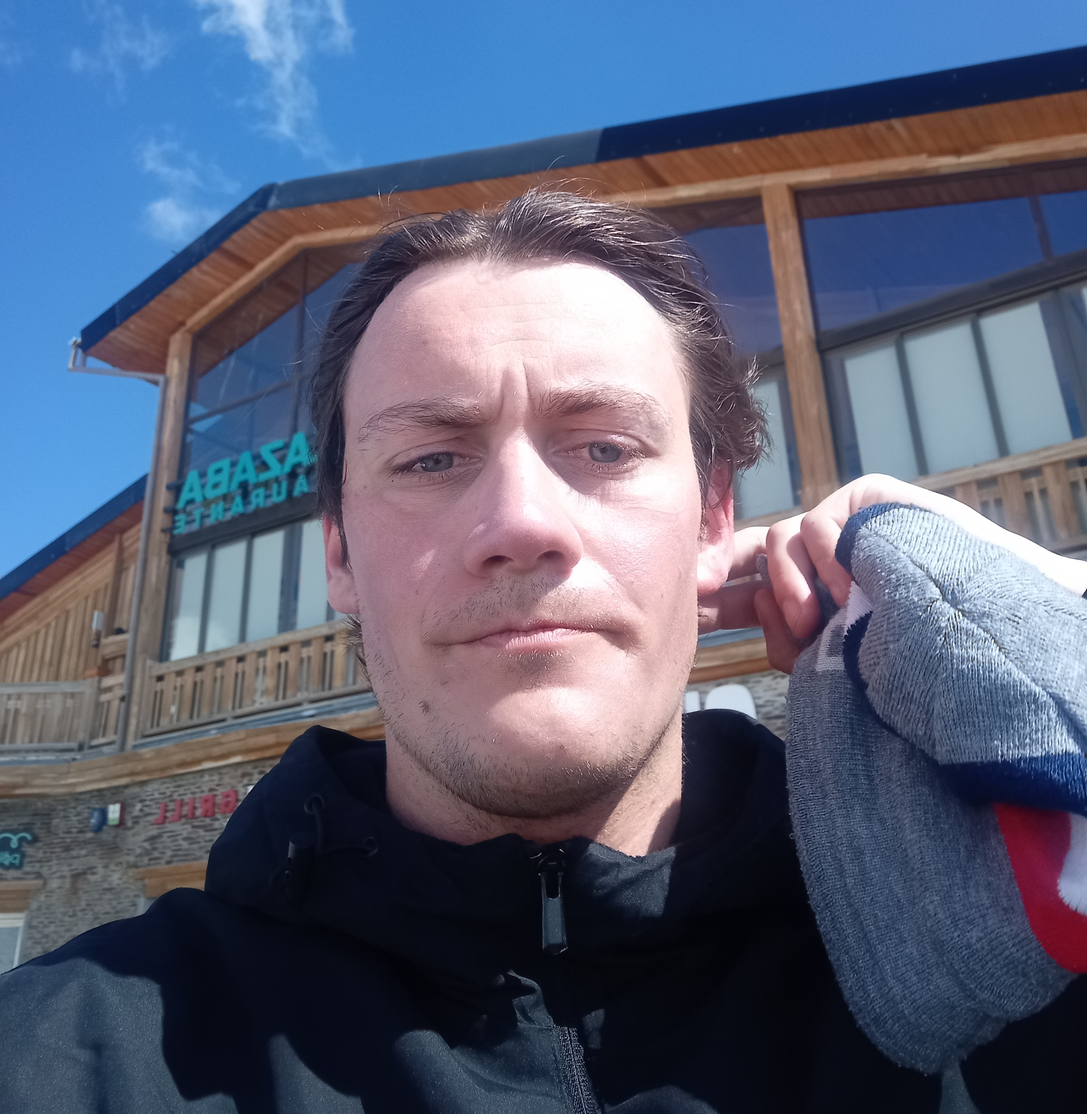
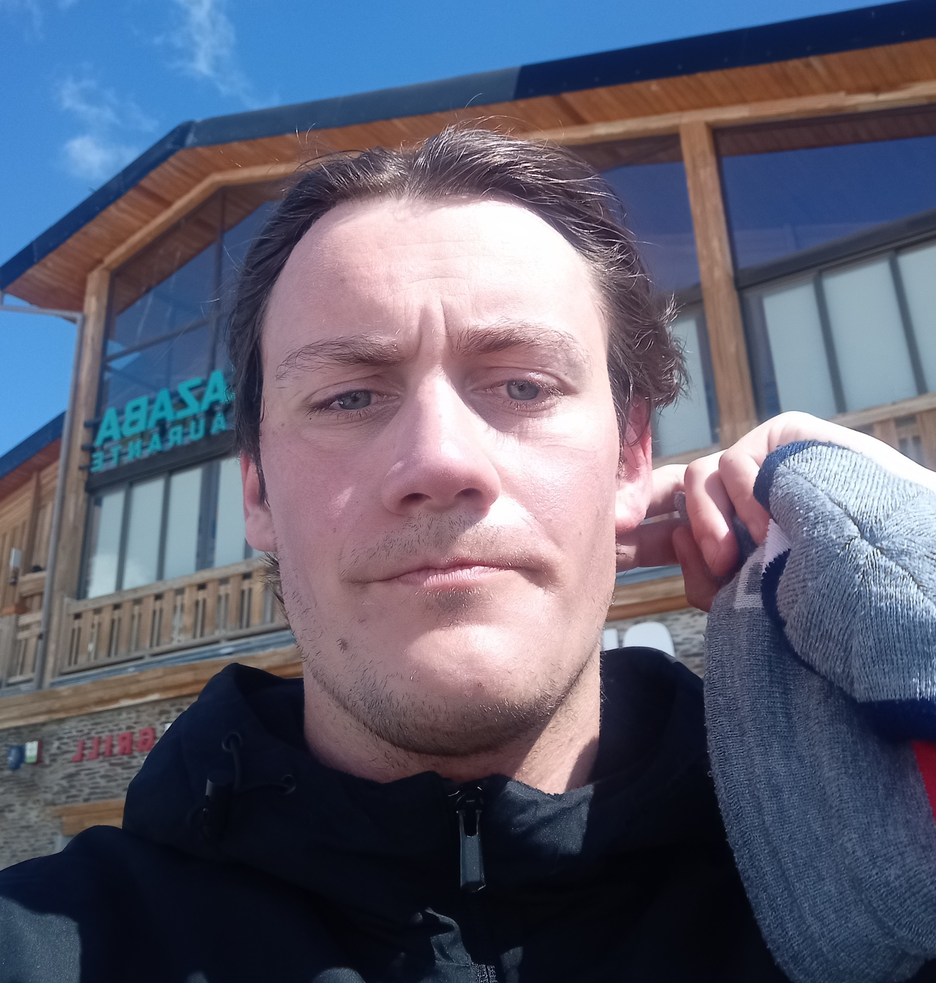
Linted markdown. Resized profile pic

diff --git a/docs/index.md b/docs/index.md
@@ -25,6 +25,7 @@ hero:
 ---
 
 ## About Me
+
 <div class="profile-container">
     <img src="/profile_pic.jpg" alt="Your Image" class="profile-pic">
     <p>
@@ -35,22 +36,26 @@ hero:
 ## Education
 
 ### Bachelor’s Degree in Computer Science and Engineering
+
 ISEL – Instituto Superior de Engenharia de Lisboa  
 Portugal, Lisbon 2020 - 2023
 
 ### Master’s Degree in Computer Science and Engineering
+
 ISEL – Instituto Superior de Engenharia de Lisboa  
 Portugal, Lisbon 2023 - 2025
 
-
 ## Skills
-### Languages:
+
+### Languages
+
 * *Portuguese (Native)*
 * *English (Advanced)*
 * *Spanish (Intermediate)*
 
-### Programming:
-* Java &#xf0b37; , Kotlin &#xe634; 
+### Programming
+
+* Java &#xf0b37; , Kotlin &#xe634;
 * JavaScript &#xe781; , Typescript &#xe8ca;
 * HTML &#xe736; , CSS &#xe749;
 * Python &#xe73c;
@@ -58,51 +63,63 @@ Portugal, Lisbon 2023 - 2025
 * PostgreSQL &#xe76e; , SQLite &#xe7c4; , MongoDB &#xe7a4; , Firebase &#xf0967;
 * Android &#xf17b;
 
-#### Frameworks:
-* Docker &#xe7b0; , Kubernetes &#xe81d; 
+#### Frameworks
+
+* Docker &#xe7b0; , Kubernetes &#xe81d;
 * Spring Boot &#xe8ac; , Hibernate &#xe7fc;
 * React &#xe7ba; , Next.js &#xe83e; , SolidJS &#xe8a7; , Vite &#xe8d7; , TailwindCSS &#xf13ff;
 * Tauri &#xe8bb;
 * Android Compose &#xf17b; , Material UI &#xe829;
 
-
-
 ## Main Projects
 
-### PostChat - Intelligent Service to Send Digital Postcards 
+### PostChat - Intelligent Service to Send Digital Postcards
+
 Instituto Superior de Engenharia de Lisboa Final Bachelor’s Project, 2022.
+
 * Skills: Android Programming, AI, Jetpack Compose, Kotlin, Python, CNN, Tensorflow, PostgreSQL, Docker
-* Links: https://github.com/ACRae/PostChat
+* Links: <https://github.com/ACRae/PostChat>
 
 ### Genome Assemblers Comparison
+
 A Project and Publication about the underlying open source DNA genome assemblers algorithms and their output results, 2024.
+
 * Skills: Docker, Bash Shell, Python, Batch, Conda.
-* Links: https://github.com/ACRae/Genome_Assemblers_Comparison
+* Links: <https://github.com/ACRae/Genome_Assemblers_Comparison>
 
 ### Fullstack Budget Calculator For Cozimodos Lda
+
 A fullstack budget calculator for a custom kitchen workshop, Torres Vedras, Portugal, 2025.
+
 * Skills: React, JavaScript, TypeScript, PostgreSQL, Next.js, TailwindCSS, Node.js, i18n
-* Links: https://www.cozimodus.com
+* Links: <https://www.cozimodus.com>
 
 ### Mobile-CMUNeXt: Fast Semantic Segmentation Diagnosis of Medical Images
-Master’s Thesis Project, 2025.
-* Skills: Python, AI, Pytorch, FPGA, C, C++, Xilinx Vitis & Vivado
-* Links: https://github.com/ACRae/Mobile-CMUNeXt
 
+Master’s Thesis Project, 2025.
+
+* Skills: Python, AI, Pytorch, FPGA, C, C++, Xilinx Vitis & Vivado
+* Links: <https://github.com/ACRae/Mobile-CMUNeXt>
 
 ## Socials
+
 ### Email &#xf01ee;
-* antonio.maria5.carvalho@gmail.com 
-* acrae.dev@proton.com
+
+* <antonio.maria5.carvalho@gmail.com>
+* <acrae.dev@proton.com>
 
 ### LinkedIn &#xe820;
-https://www.linked.com/in/acrae2002
+
+<https://www.linked.com/in/acrae2002>
 
 ### GitHub &#xf09b;
-https://github.com/ACRae
+
+<https://github.com/ACRae>
 
 ### Codeberg &#xf330;
-https://codeberg.org/ACRae
+
+<https://codeberg.org/ACRae>
 
 ### ORCID &#xefbb;
-https://orcid.org/0009-0001-5265-9566
+
+<https://orcid.org/0009-0001-5265-9566>
